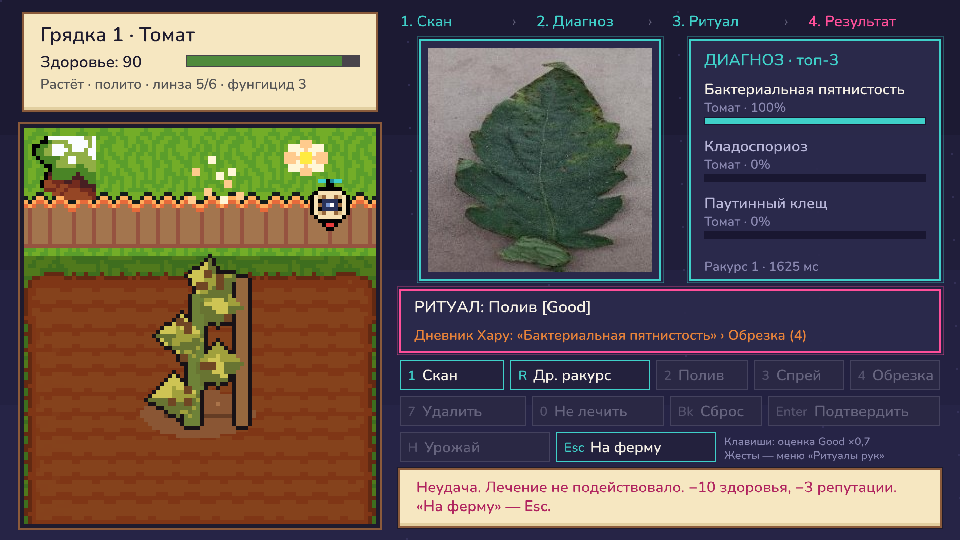
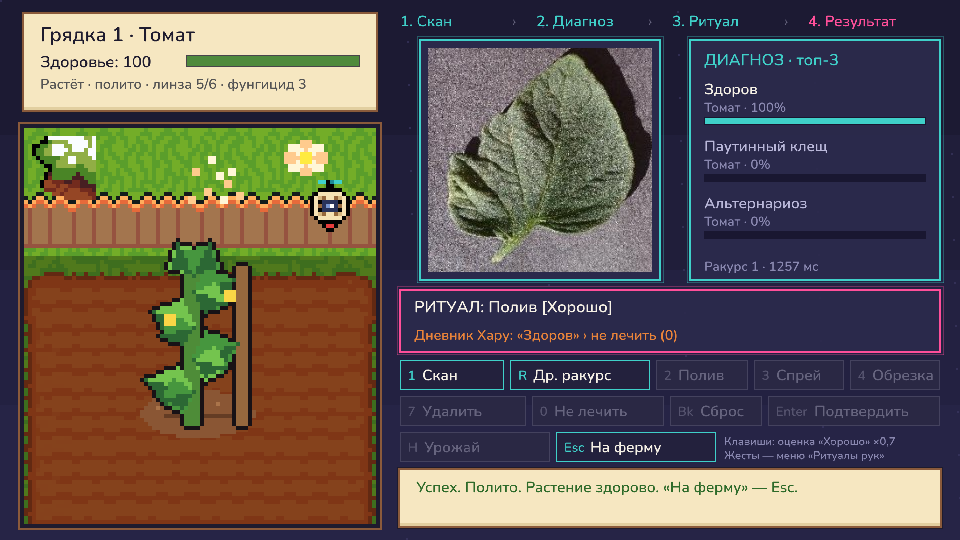
v0.8: финальные мелочи после второй перепроверки
- оценки по-русски (Идеально/Хорошо/Мимо), метка над растением, читаемая
- углы пруда, «z» во сне внутри круга, счётчик линзы не выше максимума
- release/do_posle.png — сравнение до/после

Claude-Session: https://claude.ai/code/session_0172VACPQPRWiGx6DQKvRskq

diff --git a/src/scenes/Procedure.ts b/src/scenes/Procedure.ts
@@ -14,6 +14,8 @@ import { drawHand, cameraTexture } from '../ui/hand';
 import { GardenView } from './garden';
 
 export interface Grade { label: 'Perfect' | 'Good' | 'Miss'; mult: number; color: number }
+/** Оценка по-русски (в интерфейсе). */
+export const RU_GRADE: Record<string, string> = { Perfect: 'Идеально', Good: 'Хорошо', Miss: 'Мимо' };
 export const GRADES: Record<Grade['label'], Grade> = {
   Perfect: { label: 'Perfect', mult: 1.0, color: C.teal },
   Good: { label: 'Good', mult: 0.7, color: C.orange },
@@ -279,7 +281,7 @@ export class Procedure extends Phaser.Scene {
       game.data.stats.aphids++; sound.play('swat');
       this.ring(grade);
       this.tweens.add({ targets: a.sprite, x: a.sprite.x + 500, angle: 720, alpha: 0, duration: 450, onComplete: () => a.sprite.destroy() });
-      this.say(`Тля улетела! ${grade.label}. Продолжаем лечение.`, HEX.greenDark);
+      this.say(`Тля улетела! ${RU_GRADE[grade.label]}. Продолжаем лечение.`, HEX.greenDark);
     } else {
       a.sprite.destroy();
       this.bed.health = Math.max(0, this.bed.health - 8);
@@ -335,8 +337,9 @@ export class Procedure extends Phaser.Scene {
     const r = this.add.circle(this.fuku.x, this.fuku.y + 10, 10).setStrokeStyle(3, grade.color).setDepth(50);
     this.tweens.add({ targets: r, radius: 60, alpha: 0, duration: 400, onComplete: () => r.destroy() });
     const col = '#' + grade.color.toString(16).padStart(6, '0');
-    const tag = text(this, this.fuku.x - 30, this.fuku.y + 46, grade.label, 22, col, { stroke: HEX.ink, strokeThickness: 5, backgroundColor: '#1e1b2ecc', padding: { x: 6, y: 2 } }).setOrigin(0.5).setDepth(51);
-    this.tweens.add({ targets: tag, y: tag.y - 22, alpha: 0, duration: 750, onComplete: () => tag.destroy() });
+    const pb = this.garden.bounds();   // метка — над растением, светлая с цветной обводкой
+    const tag = text(this, (pb.l + pb.r) / 2, pb.t - 18, RU_GRADE[grade.label], 22, HEX.white, { stroke: col, strokeThickness: 6 }).setOrigin(0.5).setDepth(51);
+    this.tweens.add({ targets: tag, y: tag.y - 22, alpha: 0, delay: 400, duration: 600, onComplete: () => tag.destroy() });
   }
 
   hitStop(ok: boolean) {
@@ -393,7 +396,7 @@ export class Procedure extends Phaser.Scene {
     if (b.crop) {
       add(text(this, 40, 52, `Здоровье: ${b.health}`, 16));
       add(bar(this, 186, 55, 174, 12, b.health / 100, b.health > 50 ? C.green : C.magenta));
-      add(text(this, 40, 76, `${['Росток', 'Растёт', 'Созрело'][b.stage]}${b.watered ? ' · полито' : ''} · линза ${game.data.fukuCharge}/${game.data.fukuMax} · фунгицид ${game.data.fungicide}`, 14, '#555'));
+      add(text(this, 40, 76, `${['Росток', 'Растёт', 'Созрело'][b.stage]}${b.watered ? ' · полито' : ''} · линза ${Math.min(game.data.fukuCharge, game.data.fukuMax)}/${game.data.fukuMax} · фунгицид ${game.data.fungicide}`, 14, '#555'));
     } else {   // растение удалено: здоровья нет, только подсказка
       add(text(this, 40, 54, 'Растение удалено, соседи в безопасности.', 15, '#555'));
       add(text(this, 40, 78, `Семена — у Огавы · фунгицид ${game.data.fungicide}`, 14, '#555'));
@@ -433,7 +436,7 @@ export class Procedure extends Phaser.Scene {
 
     // ритуал + подсказка из дневника
     add(neonPanel(this, 400, 290, 540, 62, C.magenta));
-    const seqText = this.seq.length ? this.seq.map((a, i) => `${ACTION_NAME[a]} [${this.grades[i].label}]`).join(' › ') : '— выберите действия ниже —';
+    const seqText = this.seq.length ? this.seq.map((a, i) => `${ACTION_NAME[a]} [${RU_GRADE[this.grades[i].label]}]`).join(' › ') : '— выберите действия ниже —';
     add(text(this, 414, 297, `РИТУАЛ: ${seqText}`, 16, HEX.white, { wordWrap: { width: 512 } }));
     const top = this.diag ? CLASSES[this.diag.top[0].id] : null;
     // весной (обучение) ритуал подсказывается здесь; летом и осенью — только в дневнике (Tab)
@@ -459,7 +462,7 @@ export class Procedure extends Phaser.Scene {
       add(pv);
       if (this.textures.exists('cam-proc')) add(this.add.image(248, 136, 'cam-proc').setOrigin(0).setDepth(31));
       add(text(this, 724, 434, 'G1 скан · G2 полив · G3 спрей\nG4 обрезка · G5 подтвердить', 11, '#b9b7d9', { lineSpacing: 0 }));
-    } else add(text(this, 724, 434, gestures.possible ? 'Клавиши: оценка Good ×0,7\nЖесты — меню «Ритуалы рук»' : 'Веб-версия: клавиши и мышь\nЖесты — в версии для ПК', 11, '#8a88b0', { lineSpacing: 0 }));
+    } else add(text(this, 724, 434, gestures.possible ? 'Клавиши: оценка «Хорошо» ×0,7\nЖесты — меню «Ритуалы рук»' : 'Веб-версия: клавиши и мышь\nЖесты — в версии для ПК', 11, '#8a88b0', { lineSpacing: 0 }));
   }
 
   closing = false;

diff --git a/src/scenes/Boss.ts b/src/scenes/Boss.ts
@@ -12,7 +12,7 @@ import { gestures } from '../ai/gestureCtl';
 import { tracker } from '../ai/hands';
 import { GestureEvent, FrameInfo } from '../ai/gestures';
 import { drawHand, cameraTexture } from '../ui/hand';
-import { GRADES, Grade } from './Procedure';
+import { GRADES, Grade, RU_GRADE } from './Procedure';
 import { addRecord, FESTIVAL_GOAL } from '../state/records';
 
 const KEYS: Record<string, Action | 'swipe'> = { '2': 'water', '3': 'spray', '4': 'prune', '6': 'swipe' };
@@ -146,8 +146,8 @@ export class Boss extends Phaser.Scene {
     this.time.delayedCall(90, () => this.boss.clearTint());
     this.cameras.main.flash(80, (grade.color >> 16) & 255, (grade.color >> 8) & 255, grade.color & 255);
     const col = '#' + grade.color.toString(16).padStart(6, '0');
-    const t = text(this, 480, 120, grade.label, 30, col, { stroke: HEX.ink, strokeThickness: 6 }).setOrigin(0.5).setDepth(40);
-    this.tweens.add({ targets: t, y: 80, alpha: 0, duration: 700, onComplete: () => t.destroy() });
+    const t = text(this, 480, 230, RU_GRADE[grade.label], 30, HEX.white, { stroke: col, strokeThickness: 7 }).setOrigin(0.5).setDepth(40);
+    this.tweens.add({ targets: t, y: 190, alpha: 0, delay: 300, duration: 600, onComplete: () => t.destroy() });
     if (this.step >= this.need.length) {
       this.locked = true;
       if (this.phase < 3) this.time.delayedCall(900, () => this.startPhase(this.phase + 1));

diff --git a/src/scenes/Home.ts b/src/scenes/Home.ts
@@ -128,9 +128,9 @@ export class Home extends Phaser.Scene {
     this.time.delayedCall(1600, () => {
       for (let i = 0; i < 6; i++) this.time.delayedCall(i * 700, () => {
         if (this.state !== 'sleeping') return;
-        const z = text(this, 600 + (i % 4) * 8, 200, 'z', 18 + (i % 4) * 6, HEX.paper).setDepth(7).setAlpha(0.9);
+        const z = text(this, 560 + (i % 4) * 10, 230, 'z', 18 + (i % 4) * 6, HEX.paper).setDepth(7).setAlpha(0.9);   // внутри круга сна
         this.zs.push(z);
-        this.tweens.add({ targets: z, y: z.y - 90, x: z.x + 40, alpha: 0, duration: 2200 });
+        this.tweens.add({ targets: z, y: z.y - 80, x: z.x + 30, alpha: 0, duration: 2200 });
       });
       sound.setMood('off');
     });

diff --git a/tools/art/build_world_na.py b/tools/art/build_world_na.py
@@ -90,7 +90,7 @@ A = np.asarray(bg).copy()
 for py in range(POND[1] * 16, POND[3] * 16):
     for px in range(POND[0] * 16, POND[2] * 16):
         r, g, b, al = A[py, px]
-        if r > 200 and g > 100 and b < 150: A[py, px] = GR[py % 16, px % 16]
+        if (r > 200 and g > 100 and b < 150) or (120 < r < 170 and 80 < g < 125 and 80 < b < 120): A[py, px] = GR[py % 16, px % 16]   # песок и бурая кромка в углах
 bg = Image.fromarray(A, 'RGBA')
 bg.alpha_composite(t(23, 8), (5 * 16, 11 * 16)); bg.alpha_composite(t(23, 8), (7 * 16 + 4, 12 * 16))
 # мелочь на траве: травка, цветочки (не на тропинках)
